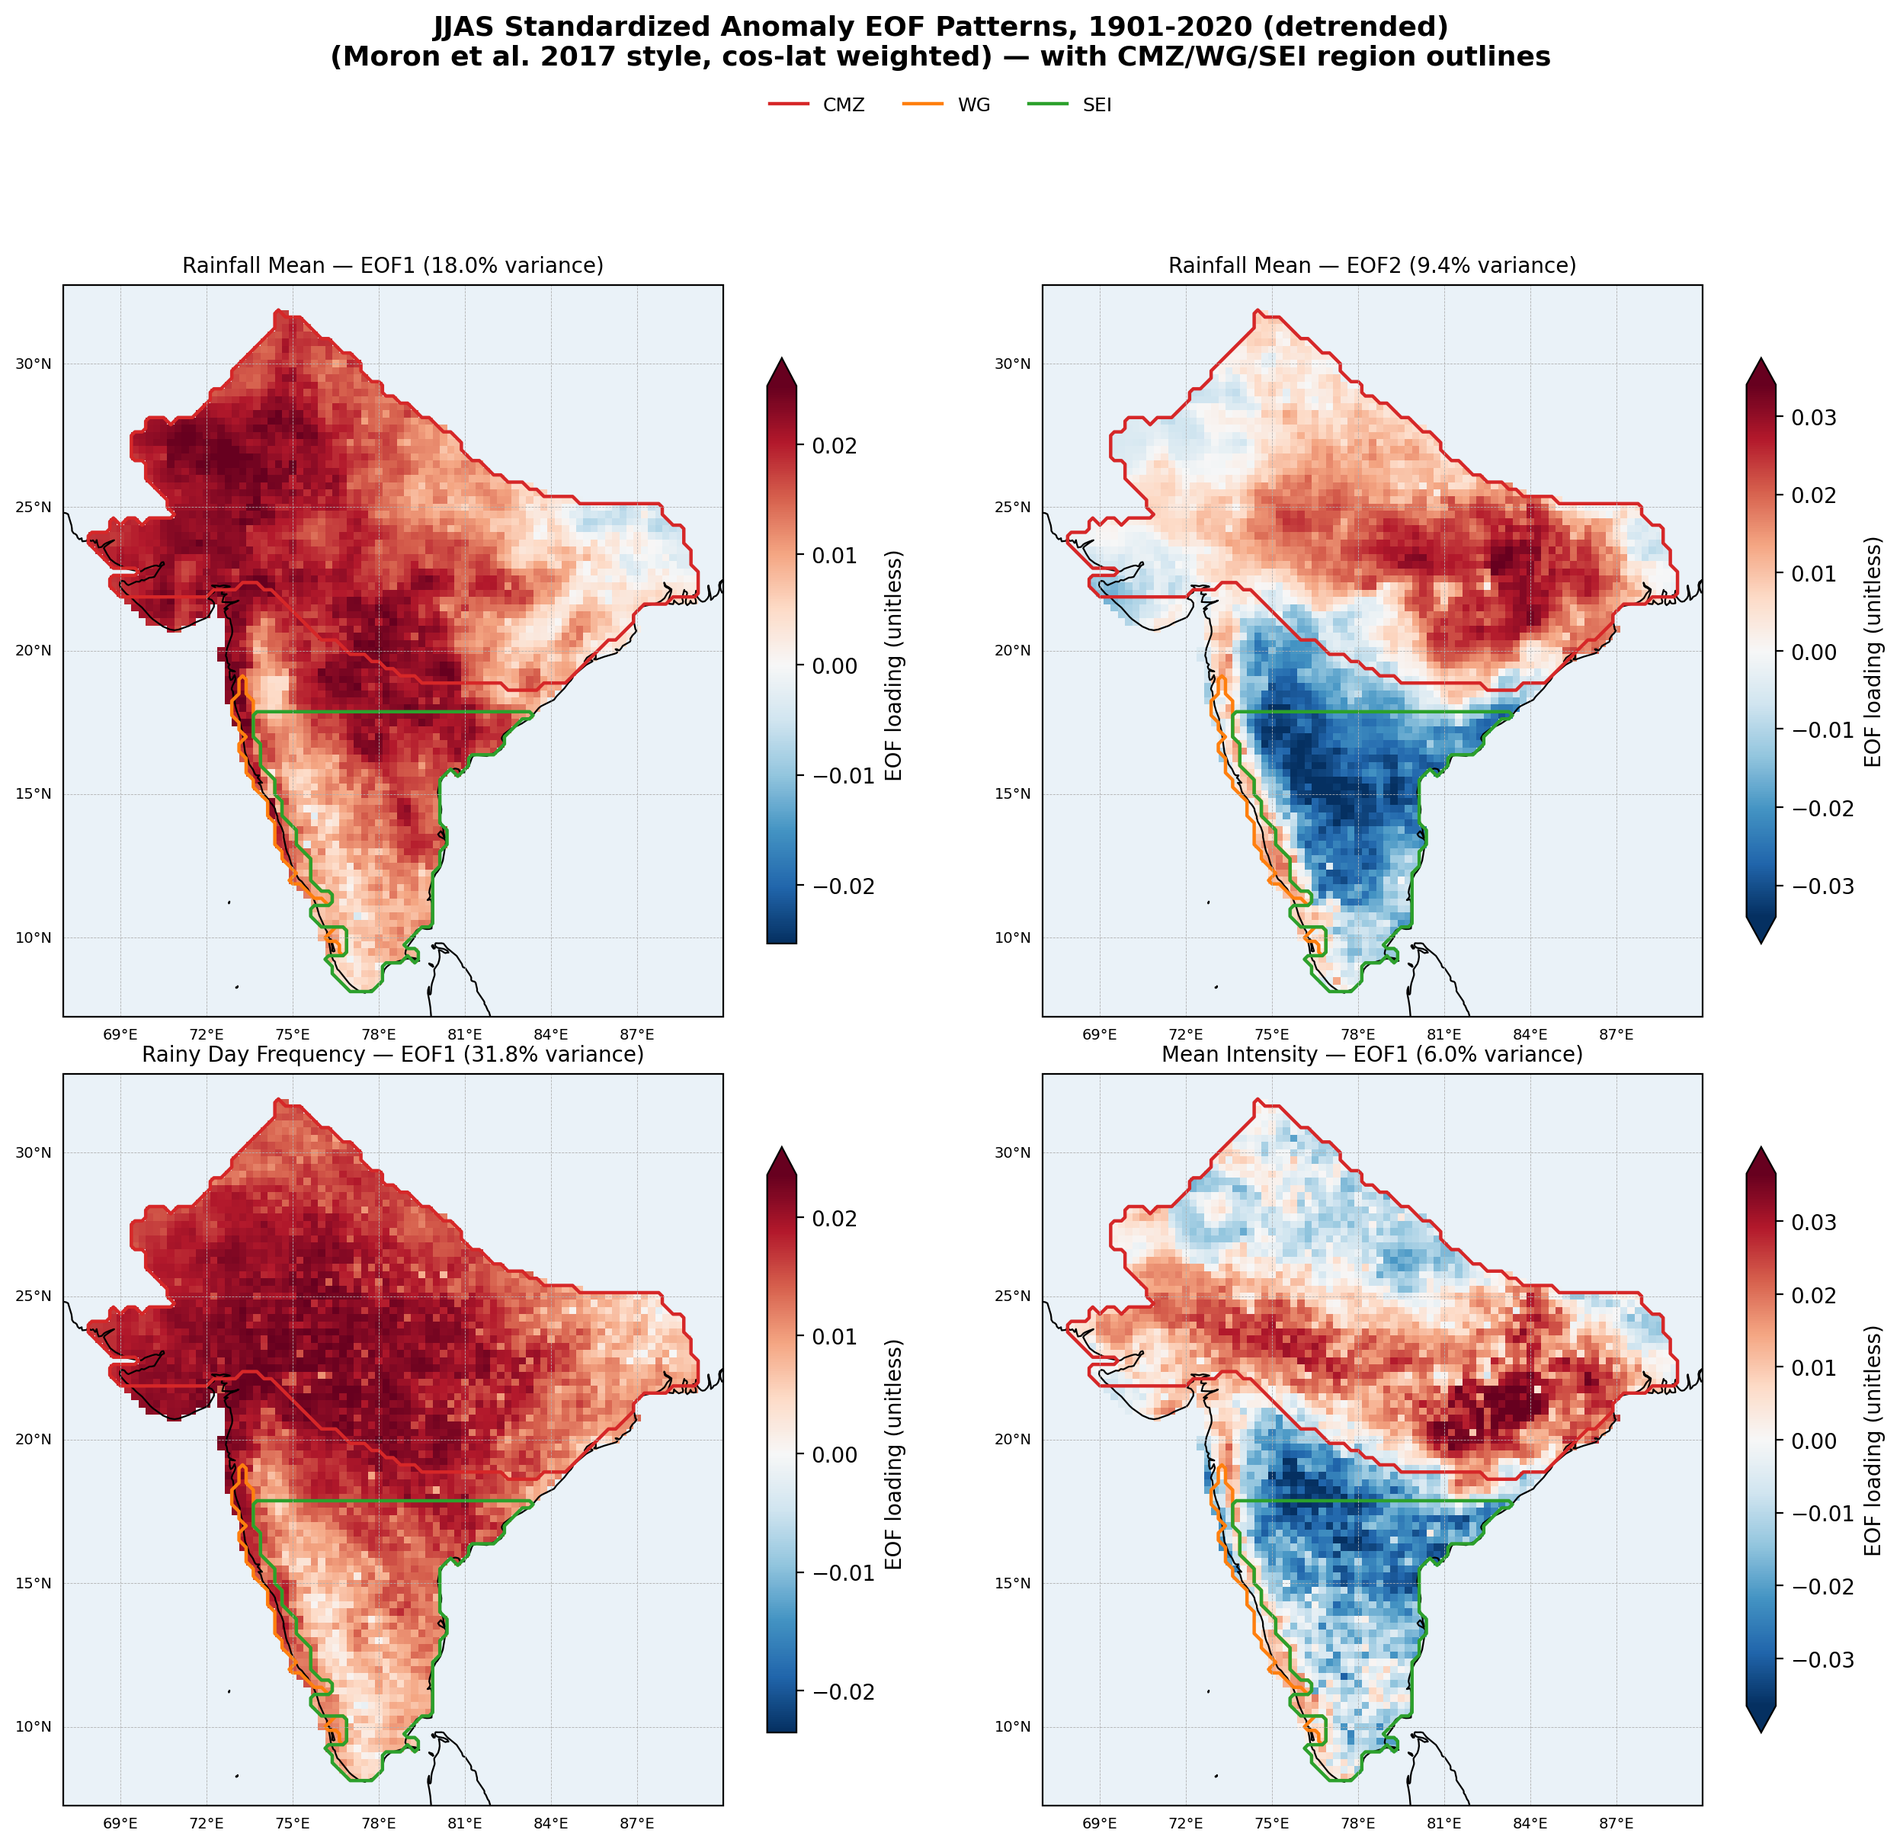
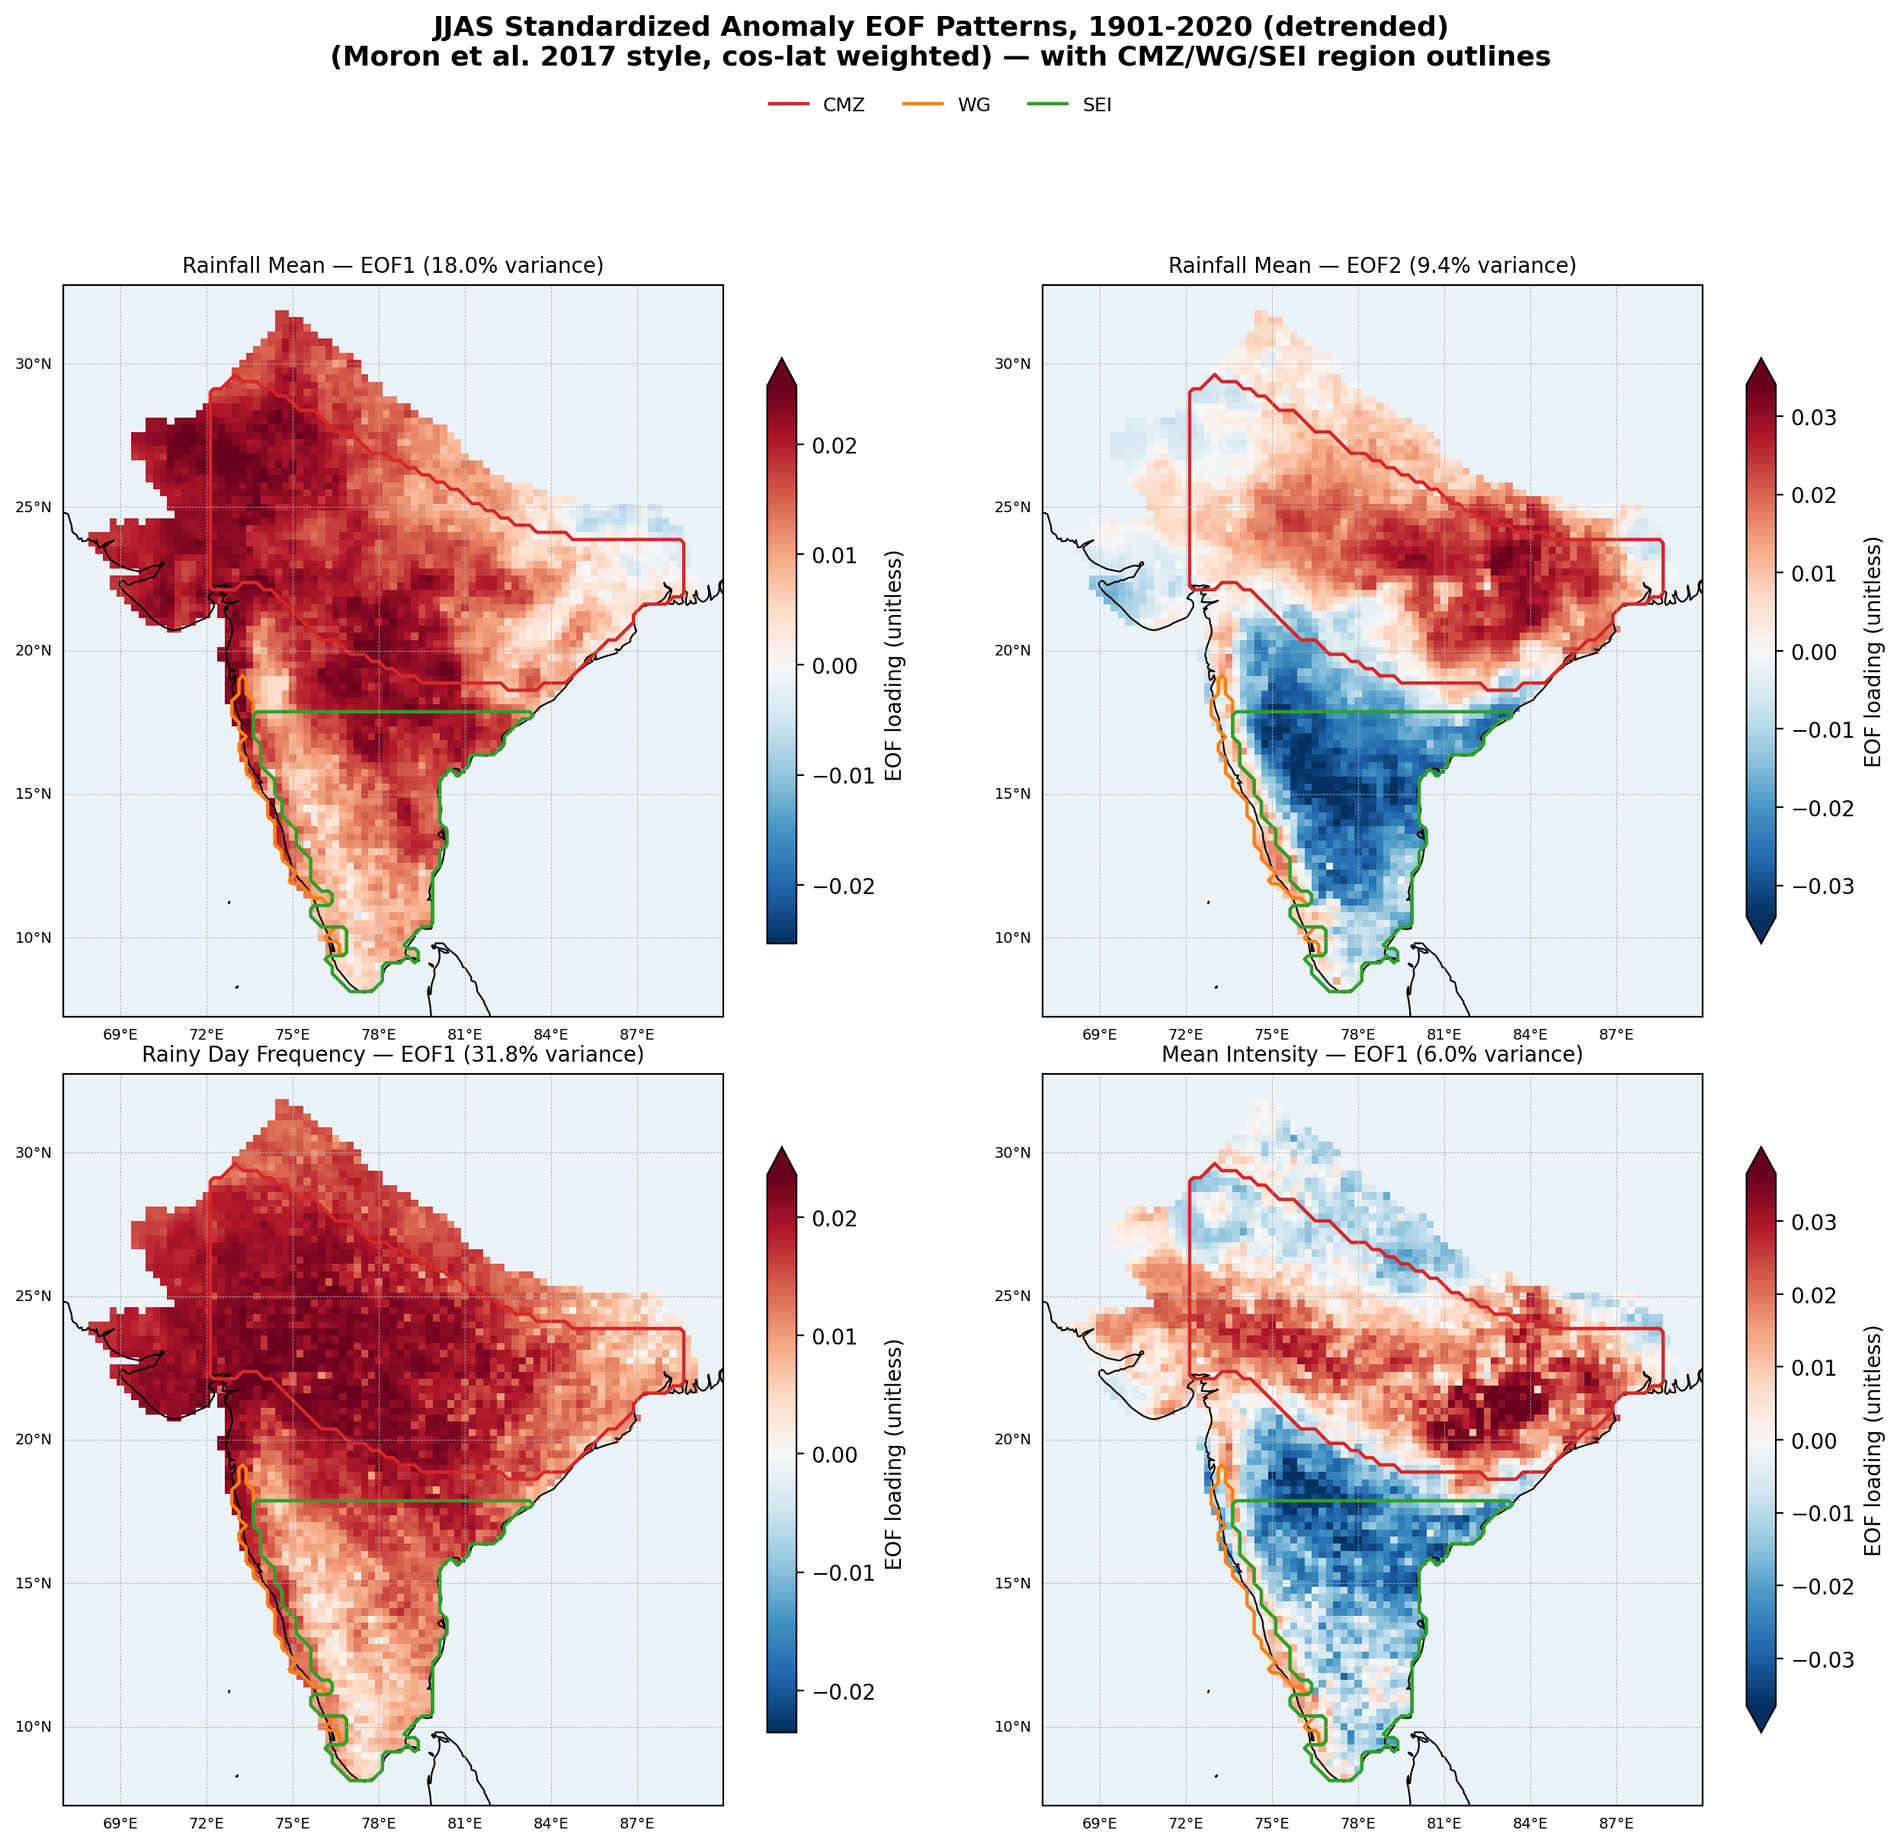
Correct CMZ boundary to stop before northeast India
compute_subregion_indices.py and plot_eof_comparison_with_regions.py: updated
NORTH_BOUNDARY/SOUTH_BOUNDARY curves and added an explicit CMZ_LON_RANGE =
(72.2, 88.5) hard cap. The previous version held each curve's endpoint value
flat past its covered longitude range (numpy.interp's default extrapolation
behavior), which let the mask bleed into northeast India and covered ~64% of
India's valid domain (2291 grid points). The corrected version is a compact
~1560-gridpoint diagonal band from Gujarat/Rajasthan through central India to
West Bengal, explicitly capped before the northeast - a much more plausible
"Central Monsoon Zone" shape.

Regenerated everything downstream: subregion_indices.csv, subregion_masks.png,
the 17x17 correlation matrix (CMZ-vs-AIRI moves 0.93 -> 0.90, other CMZ
correlations shift modestly, everything else unchanged), and
eof_comparison_with_regions.png.

CLAUDE.md updated with a general note: this project's numpy.interp usage
defaults to flat extrapolation past the given range, which is often NOT what
you want for a region boundary meant to have hard edges - check whether an
explicit range cap is needed, not just the curve values.

diff --git a/compute_subregion_indices.py b/compute_subregion_indices.py
@@ -6,13 +6,14 @@ Region definitions (from the user, not independently derived):
   - CMZ: the band between two irregular north/south boundary curves from
     Gadgil et al. (2019) Fig. 3(a), each varying with longitude (not a
     lat/lon box). At each grid point's longitude, the north and south limits
-    are linearly interpolated from the boundary vertices below; longitudes
-    outside a curve's covered range hold that curve's nearest endpoint flat
-    (numpy.interp's default behavior - no extrapolation). A grid point is in
-    CMZ if its latitude falls between the interpolated south and north
-    limits, intersected with the dataset's own `valid` (monsoon_mask) domain
-    - this naturally handles the coastline/east-west closing edges without
-    needing them specified explicitly.
+    are linearly interpolated from the boundary vertices below. Unlike a
+    naive interpolation, this band does NOT extend into northeast India -
+    it's explicitly capped to lon [72.2, 88.5] (a grid point outside that
+    range is never in CMZ, regardless of latitude), rather than holding the
+    nearest boundary vertex flat past the endpoints. A grid point is in CMZ
+    if its longitude is in that range AND its latitude falls between the
+    interpolated south and north limits, intersected with the dataset's own
+    `valid` (monsoon_mask) domain.
   - WG: grid points with climatological mean JJAS rainy days (>1mm/day,
     matching this project's threshold convention) exceeding 100 days.
     Checked empirically (see conversation) that this threshold alone, with
@@ -64,13 +65,16 @@ RAINY_DAY_THRESHOLD = 1  # mm/day, matches compute_airi_indices.py
 WG_RAINY_DAYS_THRESHOLD = 100
 DATA_EXTENT = [67.0, 90.0, 7.25, 32.75]
 
-# (lon, lat) pairs, Gadgil et al. (2019) Fig. 3(a)
+# (lon, lat) pairs, Gadgil et al. (2019) Fig. 3(a). Band spans lon [72.2, 88.5]
+# only - does not extend into northeast India (see CMZ_LON_RANGE below).
 NORTH_BOUNDARY = [
-    (74.4, 31.8), (75.6, 31.5), (76.4, 30.8), (77.1, 30.3), (77.6, 29.6), (78.2, 29.2),
-    (78.7, 28.7), (79.5, 28.2), (80.3, 27.7), (80.9, 27.2), (81.5, 26.5), (82.3, 26.0),
-    (83.1, 25.8), (83.9, 25.4), (84.7, 25.3), (85.5, 25.1), (86.3, 25.0), (87.1, 25.1),
-    (87.9, 25.1), (88.3, 25.2), (88.6, 25.9), (89.1, 27.1), (92.2, 27.1), (92.6, 26.8),
-    (93.0, 26.6), (93.4, 26.3), (93.8, 26.1), (94.2, 25.8), (94.6, 25.5), (94.9, 25.4),
+    (73.2, 29.5), (73.5, 29.4), (73.9, 29.2), (74.3, 29.0), (74.6, 28.8), (74.9, 28.7),
+    (75.2, 28.5), (75.7, 28.3), (76.0, 28.0), (76.3, 27.8), (76.9, 27.6), (77.2, 27.4),
+    (77.5, 27.1), (77.8, 26.9), (78.2, 26.8), (78.5, 26.6), (79.0, 26.4), (79.6, 26.1),
+    (79.9, 26.0), (80.4, 25.8), (80.9, 25.4), (81.3, 25.2), (81.7, 25.0), (82.0, 24.8),
+    (82.3, 24.6), (82.7, 24.5), (83.0, 24.4), (83.3, 24.3), (83.6, 24.2), (84.1, 24.0),
+    (84.5, 24.0), (85.8, 23.9), (86.2, 23.8), (86.5, 23.8), (86.9, 23.9), (87.5, 23.9),
+    (87.8, 23.9), (88.1, 23.9), (88.5, 23.9),
 ]
 SOUTH_BOUNDARY = [
     (72.2, 22.0), (72.5, 22.2), (73.8, 22.3), (74.2, 22.1), (74.5, 21.9), (74.8, 21.7),
@@ -79,6 +83,7 @@ SOUTH_BOUNDARY = [
     (79.8, 19.0), (80.7, 18.8), (81.1, 18.8), (81.5, 18.8), (81.8, 18.8), (83.1, 18.7),
     (83.9, 18.8), (84.5, 19.0), (84.9, 19.2), (87.4, 21.6), (87.7, 21.7), (88.3, 21.8),
 ]
+CMZ_LON_RANGE = (72.2, 88.5)
 SEI_LAT_LIMIT = 18.0
 
 ds = xr.open_dataset('data/rainfall/imd_rain_daily_0p25_monsoon-masked_1901-2020.nc')
@@ -96,7 +101,8 @@ north_lons, north_lats = zip(*sorted(NORTH_BOUNDARY))
 south_lons, south_lats = zip(*sorted(SOUTH_BOUNDARY))
 north_limit = xr.apply_ufunc(np.interp, lon2d, kwargs={'xp': north_lons, 'fp': north_lats})
 south_limit = xr.apply_ufunc(np.interp, lon2d, kwargs={'xp': south_lons, 'fp': south_lats})
-cmz_mask = valid & (lat2d >= south_limit) & (lat2d <= north_limit)
+cmz_lon_in_range = (lon2d >= CMZ_LON_RANGE[0]) & (lon2d <= CMZ_LON_RANGE[1])
+cmz_mask = valid & cmz_lon_in_range & (lat2d >= south_limit) & (lat2d <= north_limit)
 
 # --- WG ------------------------------------------------------------------
 rainy_mask = jjas > RAINY_DAY_THRESHOLD

diff --git a/plot_eof_comparison_with_regions.py b/plot_eof_comparison_with_regions.py
@@ -42,13 +42,16 @@ RAINY_DAY_THRESHOLD = 1  # mm/day, matches compute_airi_indices.py
 WG_RAINY_DAYS_THRESHOLD = 100
 DATA_EXTENT = [67.0, 90.0, 7.25, 32.75]
 
-# (lon, lat) pairs, Gadgil et al. (2019) Fig. 3(a) - see compute_subregion_indices.py
+# (lon, lat) pairs, Gadgil et al. (2019) Fig. 3(a) - see compute_subregion_indices.py.
+# Band spans lon [72.2, 88.5] only - does not extend into northeast India.
 NORTH_BOUNDARY = [
-    (74.4, 31.8), (75.6, 31.5), (76.4, 30.8), (77.1, 30.3), (77.6, 29.6), (78.2, 29.2),
-    (78.7, 28.7), (79.5, 28.2), (80.3, 27.7), (80.9, 27.2), (81.5, 26.5), (82.3, 26.0),
-    (83.1, 25.8), (83.9, 25.4), (84.7, 25.3), (85.5, 25.1), (86.3, 25.0), (87.1, 25.1),
-    (87.9, 25.1), (88.3, 25.2), (88.6, 25.9), (89.1, 27.1), (92.2, 27.1), (92.6, 26.8),
-    (93.0, 26.6), (93.4, 26.3), (93.8, 26.1), (94.2, 25.8), (94.6, 25.5), (94.9, 25.4),
+    (73.2, 29.5), (73.5, 29.4), (73.9, 29.2), (74.3, 29.0), (74.6, 28.8), (74.9, 28.7),
+    (75.2, 28.5), (75.7, 28.3), (76.0, 28.0), (76.3, 27.8), (76.9, 27.6), (77.2, 27.4),
+    (77.5, 27.1), (77.8, 26.9), (78.2, 26.8), (78.5, 26.6), (79.0, 26.4), (79.6, 26.1),
+    (79.9, 26.0), (80.4, 25.8), (80.9, 25.4), (81.3, 25.2), (81.7, 25.0), (82.0, 24.8),
+    (82.3, 24.6), (82.7, 24.5), (83.0, 24.4), (83.3, 24.3), (83.6, 24.2), (84.1, 24.0),
+    (84.5, 24.0), (85.8, 23.9), (86.2, 23.8), (86.5, 23.8), (86.9, 23.9), (87.5, 23.9),
+    (87.8, 23.9), (88.1, 23.9), (88.5, 23.9),
 ]
 SOUTH_BOUNDARY = [
     (72.2, 22.0), (72.5, 22.2), (73.8, 22.3), (74.2, 22.1), (74.5, 21.9), (74.8, 21.7),
@@ -57,6 +60,7 @@ SOUTH_BOUNDARY = [
     (79.8, 19.0), (80.7, 18.8), (81.1, 18.8), (81.5, 18.8), (81.8, 18.8), (83.1, 18.7),
     (83.9, 18.8), (84.5, 19.0), (84.9, 19.2), (87.4, 21.6), (87.7, 21.7), (88.3, 21.8),
 ]
+CMZ_LON_RANGE = (72.2, 88.5)
 SEI_LAT_LIMIT = 18.0
 REGION_COLORS = {'CMZ': '#d62728', 'WG': '#ff7f0e', 'SEI': '#2ca02c'}
 
@@ -73,7 +77,8 @@ north_lons, north_lats = zip(*sorted(NORTH_BOUNDARY))
 south_lons, south_lats = zip(*sorted(SOUTH_BOUNDARY))
 north_limit = xr.apply_ufunc(np.interp, lon2d, kwargs={'xp': north_lons, 'fp': north_lats})
 south_limit = xr.apply_ufunc(np.interp, lon2d, kwargs={'xp': south_lons, 'fp': south_lats})
-cmz_mask = valid & (lat2d >= south_limit) & (lat2d <= north_limit)
+cmz_lon_in_range = (lon2d >= CMZ_LON_RANGE[0]) & (lon2d <= CMZ_LON_RANGE[1])
+cmz_mask = valid & cmz_lon_in_range & (lat2d >= south_limit) & (lat2d <= north_limit)
 
 rainy_mask_all = jjas > RAINY_DAY_THRESHOLD
 mean_rainy_days = (rainy_mask_all.sum(dim='time') / n_years).where(valid)

diff --git a/README.md b/README.md
@@ -99,12 +99,15 @@ large for GitHub. Only code, figures, and documentation are tracked.
   loading saved output — see this script if you need to change what the comparison shows.
 - `compute_subregion_indices.py` — detrended mean JJAS rainfall anomaly for 3 sub-India regions: CMZ
   (Central Monsoon Zone, the band between two irregular north/south boundary curves digitized from
-  Gadgil et al. 2019 Fig. 3(a) — **turned out to cover ~64% of India's valid domain, a big diagonal band
-  from Gujarat/Rajasthan up to ~32°N, much larger than the commonly-cited simplified ~74-86°E,16-26°N
-  box** — verify this matches the actual paper figure), WG (Western Ghats — grid points with >100
-  climatological mean JJAS rainy days; checked empirically that this threshold alone, no extra
-  geographic restriction needed, is already confined to the coastal strip lon 73-76.75°E, lat 9.5-19°N),
-  and SEI (Southeast India — east of WG's per-latitude eastern edge, south of 18°N). Outputs
+  Gadgil et al. 2019 Fig. 3(a), explicitly capped to lon [72.2°E, 88.5°E] — the band does not extend into
+  northeast India, unlike an earlier version of these boundaries that held the curve's endpoint flat past
+  its covered range and ended up covering ~64% of India's valid domain. The corrected version is a
+  compact ~1560-gridpoint diagonal band from Gujarat/Rajasthan through MP/Chhattisgarh/Jharkhand to West
+  Bengal, capped before the northeast — a much more plausible "Central Monsoon Zone" shape), WG (Western
+  Ghats — grid points with >100 climatological mean JJAS rainy days; checked empirically that this
+  threshold alone, no extra geographic restriction needed, is already confined to the coastal strip
+  lon 73-76.75°E, lat 9.5-19°N), and SEI (Southeast India — east of WG's per-latitude eastern edge, south
+  of 18°N). Outputs
   `data/indices/subregion_indices.csv` and a mask-verification map (`figures/subregion_masks.png`) —
   look at that figure before trusting the indices, since region boundaries are easy to get subtly wrong.
 - `compute_airi_correlation_matrix.py` — cross-correlation (Pearson r) among the 7 AIRI measures, 4 EOF
@@ -117,7 +120,7 @@ large for GitHub. Only code, figures, and documentation are tracked.
   AIRI/standardized-anomaly/N-positive-gridpoints/mean-rainy-days/PC1-amount/PC1-freq are all tightly
   correlated (r≥0.93, largely the same signal, PC1-freq vs mean-rainy-days=1.00 exactly since EOF1
   dominates that field's variance); mean intensity and mean positive/negative anomaly are more
-  independent. CMZ correlates very strongly with AIRI (r=0.93, expected given its size); SEI is the most
+  independent. CMZ correlates very strongly with AIRI (r=0.90, expected given its size); SEI is the most
   distinct region, anti-correlating with both PC2-amount (r=-0.57) and PC1-intensity (r=-0.58) —
   consistent with SEI being governed more by the northeast monsoon than the southwest-monsoon signal
   everything else here measures. -NINO3.4 vs AIRI = 0.54 (matches the standalone sanity check in

diff --git a/CLAUDE.md b/CLAUDE.md
@@ -203,11 +203,18 @@ already applied and doesn't touch this open issue.
   three, which was backwards for intensity specifically - there's no way to know the "right" sign for an
   EOF a priori, only by checking against a reference like the paper's reported values. If you add a 4th
   EOF variable, check its sign against the paper rather than assuming uniform-positive is safe.
-- Sub-India region masks (`compute_subregion_indices.py`) are irregular, data-driven regions, not simple
-  lat/lon boxes - don't simplify them back to a box "for clarity" without checking with the user first.
-  CMZ in particular came out much bigger than the commonly-cited simplified box used elsewhere (~64% of
-  the valid domain) - this was verified as a faithful implementation of the exact boundary curves given,
-  not a bug, but hasn't been independently confirmed against the source paper's actual figure. Always
-  regenerate and look at `figures/subregion_masks.png` after touching region-boundary logic - it's easy
-  to introduce a subtle sign/direction error (e.g. north vs south boundary swapped, east vs west of a
+- Sub-India region masks (`compute_subregion_indices.py`, and duplicated in
+  `plot_eof_comparison_with_regions.py`) are irregular, data-driven regions, not simple lat/lon boxes -
+  don't simplify them back to a box "for clarity" without checking with the user first. CMZ's boundary
+  curves were corrected once already: an earlier version held the north/south curves' endpoint values
+  flat past their covered longitude range (`numpy.interp`'s default), which let the mask bleed into
+  northeast India and covered ~64% of India's valid domain. The corrected version explicitly caps CMZ to
+  `CMZ_LON_RANGE = (72.2, 88.5)` - outside that longitude range the mask is always False, no flat-holding
+  - giving a compact ~1560-gridpoint band that stops before the northeast, matching a much more plausible
+  "Central Monsoon Zone" shape. If CMZ's boundary curves change again, remember this project's default
+  numpy.interp behavior (flat extrapolation) is usually NOT what you want for a region that's meant to
+  have hard edges - always check whether an explicit lon/lat range cap is needed alongside the curve
+  interpolation, not just the curve values themselves. Always regenerate and look at
+  `figures/subregion_masks.png` after touching region-boundary logic in either script - it's easy to
+  introduce a subtle sign/direction error (e.g. north vs south boundary swapped, east vs west of a
   per-latitude edge) that still produces a plausible-looking but wrong mask.
